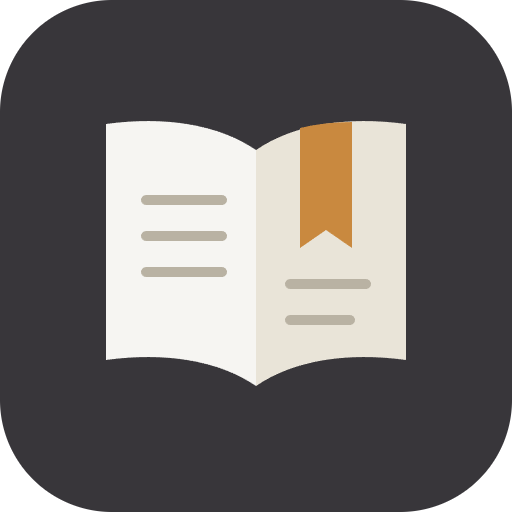
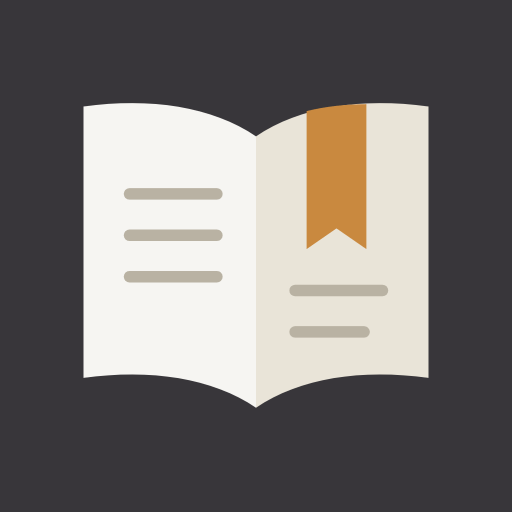
Google Play: квадратный значок 512×512, заголовки описания без капса

diff --git a/data-src/play/listing.md b/data-src/play/listing.md
@@ -1,7 +1,7 @@
 # AO Bible — материалы для Google Play
 
 Всё, что нужно вставить в Play Console. Картинки лежат рядом:
-- `icon-512.png` — значок приложения (512×512);
+- `icon-512.png` — значок приложения (512×512, полный квадрат — Google скругляет сам);
 - `feature-1024x500.png` — баннер (Feature graphic);
 - `screens/*.png` — скриншоты телефона 1080×2160 (загрузить 4–8 штук по порядку номеров).
 
@@ -19,24 +19,24 @@ AO Bible — Библия и Стронг
 
 AO Bible — бесплатное приложение для чтения и изучения Библии. Без рекламы, без регистрации, без сбора данных.
 
-ЧИТАТЬ УДОБНО
+Читать удобно
 • Синодальный перевод с номерами Стронга и другие переводы на русском и десятках языков
 • Два перевода рядом — на телефоне и на планшете
 • Размер букв, шрифт, межстрочный интервал, темы и фон — всё под себя
 • Свайп влево и вправо — следующая и предыдущая глава
 • Работает без интернета: скачанные переводы и словари всегда с собой
 
-ИЗУЧАТЬ ГЛУБЖЕ
+Изучать глубже
 • Нажмите на слово — увидите слово оригинала на иврите или греческом и его значение по словарю Стронга
 • Подстрочник: еврейский текст, греческий Новый Завет, Септуагинта и Вульгата со значениями слов
 • Симфония: где ещё встречается то же слово
 • Параллельные места, комментарии, карты библейских мест, иллюстрации к стихам
 
-СЛУШАТЬ
+Слушать
 • Живое чтение Библии на русском и других языках (запись чтеца, не синтез речи)
 • Текст следует за чтецом, громкость, скорость и таймер сна
 
-ПЛАНЫ И ЗАМЕТКИ
+Планы и заметки
 • Планы чтения: Библия за год, Новый Завет за 90 дней, Псалтирь и другие, а также свой план
 • Стих дня с красивой картинкой
 • Закладки, любимые стихи, цветные выделения, заметки и подборки
@@ -58,23 +58,23 @@ Bible with Strong's dictionary, interlinear, reading plans and audio Bible
 
 AO Bible is a free app for reading and studying the Bible. No ads, no sign-up, no data collection.
 
-READ COMFORTABLY
+Read comfortably
 • Russian Synodal translation with Strong's numbers and many other translations in dozens of languages
 • Two translations side by side
 • Font, size, line spacing, themes and backgrounds — make it yours
 • Swipe left and right to move between chapters
 • Works offline: downloaded translations and dictionaries are always with you
 
-STUDY DEEPER
+Study deeper
 • Tap a word to see the original Hebrew or Greek word and its meaning from Strong's dictionary
 • Interlinear: Hebrew text, Greek New Testament, Septuagint and Vulgate with word meanings
 • Concordance, cross-references, commentaries, Bible maps and verse illustrations
 
-LISTEN
+Listen
 • Audio Bible read by real narrators (no speech synthesis)
 • Text follows the reader; volume, speed and sleep timer
 
-PLANS AND NOTES
+Plans and notes
 • Reading plans: the Bible in a year, the New Testament in 90 days, Psalms and more — or your own plan
 • Verse of the day
 • Bookmarks, favorite verses, highlights, notes and collections
